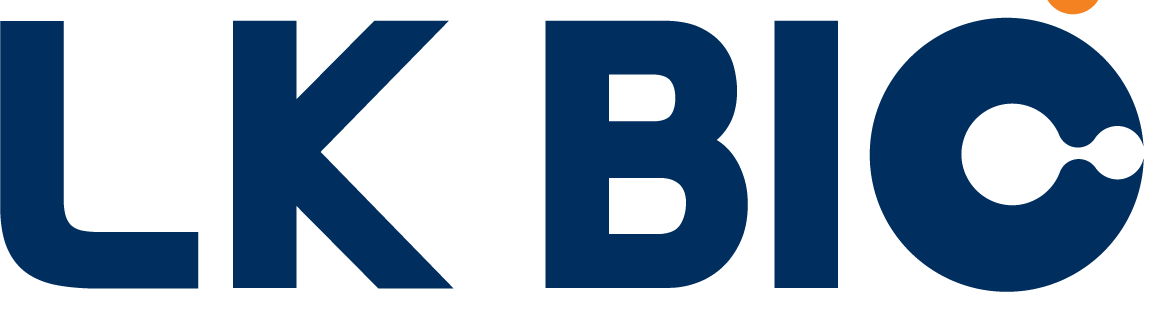
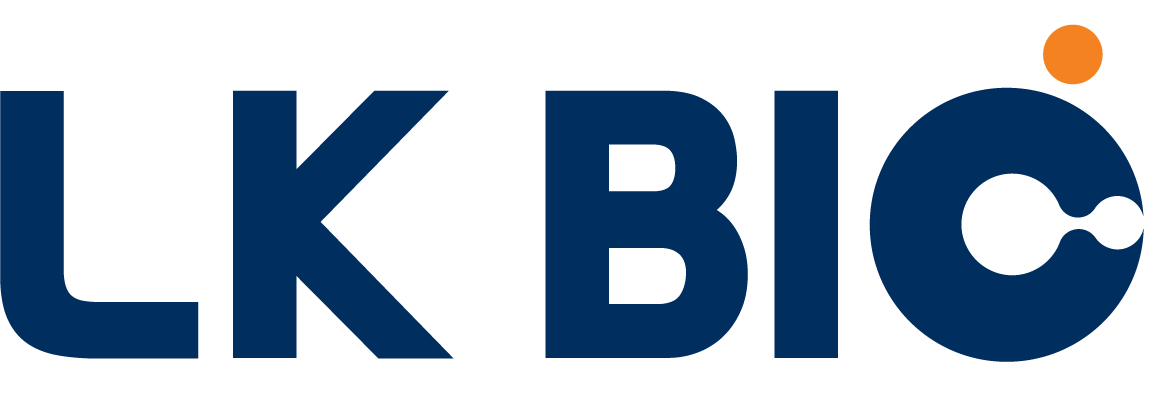
Restore wordmark top spacing

diff --git a/index.html b/index.html
@@ -14,7 +14,7 @@
     :root{--navy:#071a33;--navy2:#0c2b52;--blue:#1e6fe8;--cyan:#46b7ff;--text:#142033;--muted:#6d7888;--line:#e7ebf1;--bg:#f6f9fc;--white:#fff;--shadow:0 20px 60px rgba(11,35,67,.12)}
     *{box-sizing:border-box} html{scroll-behavior:smooth} body{margin:0;font-family:'Noto Sans KR',sans-serif;color:var(--text);background:#fff;line-height:1.7} a{text-decoration:none;color:inherit} img{max-width:100%;display:block}
     .container{width:min(1180px,calc(100% - 40px));margin:auto}.section{padding:120px 0}.eyebrow{font:700 13px/1 'Montserrat',sans-serif;letter-spacing:.18em;color:var(--blue);text-transform:uppercase}.section-title{font-size:44px;line-height:1.25;margin:18px 0 20px;letter-spacing:-.04em}.section-desc{font-size:18px;color:var(--muted);max-width:760px}
-    header{position:fixed;top:0;left:0;width:100%;z-index:1000;padding:18px 0;transition:.3s} header.scrolled{background:rgba(255,255,255,.94);backdrop-filter:blur(16px);box-shadow:0 8px 30px rgba(0,0,0,.08);padding:12px 0}.nav{display:flex;align-items:center;justify-content:space-between}.logo{width:154px;height:44px;display:inline-flex;align-items:center;justify-content:center;flex:none}.logo img{width:100%;height:100%;object-fit:contain;filter:brightness(0) invert(1);transition:filter .3s}header.scrolled .logo img{filter:none}.menu{display:flex;gap:34px;color:#fff;font-size:15px;font-weight:500}.menu a{position:relative}.menu a:after{content:"";position:absolute;left:0;bottom:-8px;width:0;height:2px;background:var(--cyan);transition:.25s}.menu a:hover:after{width:100%} header.scrolled .menu{color:var(--text)}.nav-btn{padding:12px 20px;border:1px solid rgba(255,255,255,.5);border-radius:999px;color:#fff;font-weight:600}.nav-btn:hover{background:#fff;color:var(--navy)} header.scrolled .nav-btn{background:var(--navy);border-color:var(--navy)}.hamb{display:none;color:#fff;font-size:24px} header.scrolled .hamb{color:var(--navy)}
+    header{position:fixed;top:0;left:0;width:100%;z-index:1000;padding:18px 0;transition:.3s} header.scrolled{background:rgba(255,255,255,.94);backdrop-filter:blur(16px);box-shadow:0 8px 30px rgba(0,0,0,.08);padding:12px 0}.nav{display:flex;align-items:center;justify-content:space-between}.logo{width:154px;height:53px;display:inline-flex;align-items:center;justify-content:center;flex:none}.logo img{width:100%;height:100%;object-fit:contain;filter:brightness(0) invert(1);transition:filter .3s}header.scrolled .logo img{filter:none}.menu{display:flex;gap:34px;color:#fff;font-size:15px;font-weight:500}.menu a{position:relative}.menu a:after{content:"";position:absolute;left:0;bottom:-8px;width:0;height:2px;background:var(--cyan);transition:.25s}.menu a:hover:after{width:100%} header.scrolled .menu{color:var(--text)}.nav-btn{padding:12px 20px;border:1px solid rgba(255,255,255,.5);border-radius:999px;color:#fff;font-weight:600}.nav-btn:hover{background:#fff;color:var(--navy)} header.scrolled .nav-btn{background:var(--navy);border-color:var(--navy)}.hamb{display:none;color:#fff;font-size:24px} header.scrolled .hamb{color:var(--navy)}
     .hero{min-height:100vh;display:flex;align-items:center;position:relative;overflow:hidden;background:linear-gradient(120deg,rgba(5,22,43,.96),rgba(8,43,82,.88)),url('https://images.unsplash.com/photo-1576091160399-112ba8d25d1d?auto=format&fit=crop&w=1800&q=85') center/cover}.hero:before{content:"";position:absolute;inset:0;background-image:linear-gradient(rgba(255,255,255,.04) 1px,transparent 1px),linear-gradient(90deg,rgba(255,255,255,.04) 1px,transparent 1px);background-size:70px 70px;mask-image:linear-gradient(to bottom,#000,transparent)}.hero-orb{position:absolute;border-radius:50%;filter:blur(5px);opacity:.45}.orb1{width:480px;height:480px;background:radial-gradient(circle,var(--blue),transparent 68%);right:-120px;top:80px}.orb2{width:360px;height:360px;background:radial-gradient(circle,#12d3c3,transparent 65%);left:-160px;bottom:-80px}.hero-content{position:relative;color:#fff;padding-top:70px}.hero small{display:inline-flex;align-items:center;gap:10px;font:600 13px 'Montserrat',sans-serif;letter-spacing:.16em;color:#9ed3ff}.hero small:before{content:"";width:34px;height:1px;background:#9ed3ff}.hero h1{font-size:72px;line-height:1.13;letter-spacing:-.055em;margin:28px 0 28px;max-width:940px}.hero h1 span{background:linear-gradient(90deg,#fff,#72c8ff);-webkit-background-clip:text;color:transparent}.hero p{font-size:20px;color:rgba(255,255,255,.78);max-width:680px}.hero-actions{display:flex;gap:14px;margin-top:42px}.btn{display:inline-flex;align-items:center;justify-content:center;padding:16px 26px;border-radius:8px;font-weight:700;transition:.25s}.btn-primary{background:var(--blue);color:#fff;box-shadow:0 12px 30px rgba(30,111,232,.35)}.btn-primary:hover{transform:translateY(-3px);background:#155fc9}.btn-ghost{border:1px solid rgba(255,255,255,.42);color:#fff}.btn-ghost:hover{background:#fff;color:var(--navy)}.hero-stats{display:grid;grid-template-columns:repeat(3,1fr);max-width:800px;margin-top:80px;border-top:1px solid rgba(255,255,255,.18);padding-top:28px}.stat strong{font:700 32px 'Montserrat',sans-serif}.stat span{display:block;color:rgba(255,255,255,.6);font-size:14px;margin-top:4px}.scroll{position:absolute;right:40px;bottom:35px;color:rgba(255,255,255,.65);font:600 11px 'Montserrat';letter-spacing:.18em;writing-mode:vertical-rl}.scroll:after{content:"";display:inline-block;width:1px;height:60px;background:linear-gradient(#fff,transparent);margin-top:14px}
     .intro{background:#fff}.intro-grid{display:grid;grid-template-columns:1.05fr .95fr;gap:80px;align-items:center}.visual-card{position:relative}.visual-card img{width:100%;height:560px;object-fit:cover;border-radius:4px}.visual-card:before{content:"";position:absolute;left:-24px;top:30px;width:70%;height:100%;border:1px solid #bfd1e5;z-index:-1}.quote-card{position:absolute;right:-35px;bottom:40px;width:310px;padding:28px;background:var(--navy);color:#fff;box-shadow:var(--shadow)}.quote-card b{font-size:23px;display:block;margin-bottom:10px}.quote-card p{font-size:14px;color:rgba(255,255,255,.7);margin:0}.philosophy{display:flex;gap:18px;align-items:center;margin-top:34px;padding-top:28px;border-top:1px solid var(--line)}.hanja{font-family:serif;font-size:44px;color:var(--navy);white-space:nowrap}.philosophy b{display:block;font-size:18px}.philosophy span{color:var(--muted);font-size:14px}
     .business{background:var(--bg)}.cards{display:grid;grid-template-columns:repeat(3,1fr);gap:22px;margin-top:55px}.biz-card{background:#fff;padding:38px 32px;min-height:340px;border:1px solid #edf0f4;transition:.3s;position:relative;overflow:hidden}.biz-card:after{content:"";position:absolute;left:0;bottom:0;width:100%;height:4px;background:linear-gradient(90deg,var(--blue),var(--cyan));transform:scaleX(0);transform-origin:left;transition:.3s}.biz-card:hover{transform:translateY(-10px);box-shadow:var(--shadow)}.biz-card:hover:after{transform:scaleX(1)}.icon{width:62px;height:62px;border-radius:16px;background:#edf5ff;display:grid;place-items:center;font-size:27px;margin-bottom:36px}.biz-card h3{font-size:23px;margin:0 0 14px}.biz-card p{color:var(--muted);font-size:15px}.biz-card .num{position:absolute;right:24px;top:20px;font:700 42px 'Montserrat';color:#edf2f8}
@@ -22,14 +22,14 @@
     .process{background:#fff}.process-wrap{display:grid;grid-template-columns:repeat(4,1fr);margin-top:60px;position:relative}.process-wrap:before{content:"";position:absolute;top:36px;left:10%;right:10%;height:1px;background:#ced8e5}.step{text-align:center;position:relative;padding:0 18px}.step-dot{width:74px;height:74px;border-radius:50%;margin:0 auto 24px;background:#fff;border:2px solid var(--blue);display:grid;place-items:center;font:700 20px 'Montserrat';color:var(--blue);position:relative;z-index:2}.step h4{font-size:19px;margin-bottom:8px}.step p{font-size:14px;color:var(--muted)}
     .partners{background:var(--bg)}.partner-grid{display:grid;grid-template-columns:repeat(3,1fr);gap:22px;margin-top:50px}.partner-card{background:#fff;border:1px solid #e9edf3;padding:36px;min-height:220px;display:flex;flex-direction:column;justify-content:space-between}.partner-card .tag{font:700 12px 'Montserrat';letter-spacing:.12em;color:var(--blue)}.partner-card h3{font-size:22px;margin:20px 0 10px}.partner-card p{color:var(--muted);font-size:14px}.partner-card em{font-style:normal;font-size:12px;color:#9aa4b3}
     .cta{padding:0 0 120px;background:var(--bg)}.cta-box{background:linear-gradient(120deg,#0b2546,#12447b);color:#fff;padding:70px;display:flex;align-items:center;justify-content:space-between;position:relative;overflow:hidden}.cta-box:after{content:"";position:absolute;width:300px;height:300px;border:70px solid rgba(255,255,255,.06);border-radius:50%;right:-90px;top:-100px}.cta-box h2{font-size:38px;margin:0 0 12px}.cta-box p{color:rgba(255,255,255,.68);margin:0}.cta-box .btn{position:relative;z-index:2;background:#fff;color:var(--navy);min-width:180px}
-    footer{background:#061426;color:#fff;padding:60px 0 30px}.footer-grid{display:grid;grid-template-columns:1.2fr 1fr 1fr;gap:60px}.footer-logo{width:200px;height:57px;display:flex;align-items:center;margin-bottom:24px}.footer-logo img{width:100%;height:100%;object-fit:contain;filter:brightness(0) invert(1)}.footer-desc{color:rgba(255,255,255,.5);font-size:14px;max-width:400px}.footer-title{font-size:14px;color:#82c8ff;margin-bottom:16px}.footer-info{color:rgba(255,255,255,.62);font-size:14px}.copyright{border-top:1px solid rgba(255,255,255,.1);margin-top:40px;padding-top:22px;font-size:12px;color:rgba(255,255,255,.35);display:flex;justify-content:space-between}
+    footer{background:#061426;color:#fff;padding:60px 0 30px}.footer-grid{display:grid;grid-template-columns:1.2fr 1fr 1fr;gap:60px}.footer-logo{width:200px;height:69px;display:flex;align-items:center;margin-bottom:24px}.footer-logo img{width:100%;height:100%;object-fit:contain;filter:brightness(0) invert(1)}.footer-desc{color:rgba(255,255,255,.5);font-size:14px;max-width:400px}.footer-title{font-size:14px;color:#82c8ff;margin-bottom:16px}.footer-info{color:rgba(255,255,255,.62);font-size:14px}.copyright{border-top:1px solid rgba(255,255,255,.1);margin-top:40px;padding-top:22px;font-size:12px;color:rgba(255,255,255,.35);display:flex;justify-content:space-between}
     .reveal{opacity:0;transform:translateY(30px);transition:.7s}.reveal.show{opacity:1;transform:none}
     @media(max-width:900px){.menu,.nav-btn{display:none}.hamb{display:block}.hero h1{font-size:48px}.hero-stats{grid-template-columns:1fr 1fr 1fr}.intro-grid,.strength-grid{grid-template-columns:1fr}.cards,.partner-grid{grid-template-columns:1fr 1fr}.visual-card img{height:440px}.quote-card{right:15px}.process-wrap{grid-template-columns:1fr 1fr;gap:45px}.process-wrap:before{display:none}.cta-box{padding:48px;display:block}.cta-box .btn{margin-top:25px}.footer-grid{grid-template-columns:1fr 1fr}}
-    @media(max-width:620px){.container{width:min(100% - 28px,1180px)}.logo{width:130px;height:37px}.section{padding:85px 0}.section-title{font-size:33px}.hero h1{font-size:42px}.hero p{font-size:17px}.hero-actions{flex-direction:column;align-items:flex-start}.hero-stats{gap:10px}.stat strong{font-size:25px}.stat span{font-size:11px}.cards,.partner-grid,.strength-list,.process-wrap,.footer-grid{grid-template-columns:1fr}.visual-card img{height:380px}.quote-card{position:relative;right:auto;bottom:auto;width:calc(100% - 24px);margin:-60px 12px 0}.cta-box{padding:38px 26px}.cta-box h2{font-size:29px}.copyright{display:block}.scroll{display:none}}
+    @media(max-width:620px){.container{width:min(100% - 28px,1180px)}.logo{width:130px;height:45px}.section{padding:85px 0}.section-title{font-size:33px}.hero h1{font-size:42px}.hero p{font-size:17px}.hero-actions{flex-direction:column;align-items:flex-start}.hero-stats{gap:10px}.stat strong{font-size:25px}.stat span{font-size:11px}.cards,.partner-grid,.strength-list,.process-wrap,.footer-grid{grid-template-columns:1fr}.visual-card img{height:380px}.quote-card{position:relative;right:auto;bottom:auto;width:calc(100% - 24px);margin:-60px 12px 0}.cta-box{padding:38px 26px}.cta-box h2{font-size:29px}.copyright{display:block}.scroll{display:none}}
   </style>
 </head>
 <body>
-<header id="header"><div class="container nav"><a class="logo" href="/" aria-label="LK BIO 홈"><img src="/assets/lkbio-wordmark.png" width="1155" height="330" alt="LK BIO"></a><nav class="menu"><a href="#about">회사소개</a><a href="#business">사업분야</a><a href="#strength">경쟁력</a><a href="#partner">파트너십</a><a href="#contact">문의하기</a></nav><a class="nav-btn" href="mailto:lkbio24@naver.com?subject=LK%20BIO%20상담문의">사업 제휴 문의</a><div class="hamb">☰</div></div></header>
+<header id="header"><div class="container nav"><a class="logo" href="/" aria-label="LK BIO 홈"><img src="/assets/lkbio-wordmark.png" width="1155" height="400" alt="LK BIO"></a><nav class="menu"><a href="#about">회사소개</a><a href="#business">사업분야</a><a href="#strength">경쟁력</a><a href="#partner">파트너십</a><a href="#contact">문의하기</a></nav><a class="nav-btn" href="mailto:lkbio24@naver.com?subject=LK%20BIO%20상담문의">사업 제휴 문의</a><div class="hamb">☰</div></div></header>
 <section class="hero"><div class="hero-orb orb1"></div><div class="hero-orb orb2"></div><div class="container hero-content"><small>PHARMACEUTICAL BUSINESS PARTNER</small><h1>신뢰를 연결하고,<br><span>의료 비즈니스의 가치를 만듭니다.</span></h1><p>LK BIO는 30년 제약 현장 경험과 전문 네트워크를 바탕으로 제약사, 병·의원, 사업자를 연결하는 전략적 비즈니스 파트너입니다.</p><div class="hero-actions"><a class="btn btn-primary" href="#business">사업영역 보기 →</a><a class="btn btn-ghost" href="mailto:lkbio24@naver.com?subject=LK%20BIO%20상담문의">제휴 문의</a></div><div class="hero-stats"><div class="stat"><strong>30+</strong><span>Years of Experience</span></div><div class="stat"><strong>3</strong><span>MOU Partners</span></div><div class="stat"><strong>Trust</strong><span>Long-term Partnership</span></div></div></div><div class="scroll">SCROLL</div></section>
 <section class="section intro" id="about"><div class="container intro-grid"><div class="visual-card reveal"><img src="https://images.unsplash.com/photo-1579684385127-1ef15d508118?auto=format&fit=crop&w=1200&q=85" alt="의료 전문 이미지"><div class="quote-card"><b>正心大道</b><p>바른 마음으로 큰길을 간다.<br>정직과 성실을 바탕으로 지속 가능한 신뢰를 만듭니다.</p></div></div><div class="reveal"><div class="eyebrow">ABOUT LK BIO</div><h2 class="section-title">현장을 이해하는 기업이<br>최선의 연결을 만듭니다.</h2><p class="section-desc">LK BIO는 제약 산업의 복잡한 유통·영업 환경을 깊이 이해하고 있습니다. 단순한 판매 대행을 넘어 파트너의 목표와 시장 상황을 분석하여 실질적인 성과로 이어지는 맞춤형 솔루션을 제공합니다.</p><div class="philosophy"><div class="hanja">正心大道</div><div><b>정심대도</b><span>정직과 성실, 그리고 올바른 성장을 향한 LK BIO의 경영철학</span></div></div></div></div></section>
 <section class="section business" id="business"><div class="container"><div class="eyebrow reveal">BUSINESS AREA</div><h2 class="section-title reveal">제약 비즈니스의 전 과정을<br>전문적으로 연결합니다.</h2><p class="section-desc reveal">파트너사의 제품과 경쟁력에 맞춘 영업 전략을 수립하고, 의료기관과의 신뢰 기반 네트워크를 통해 시장 진입과 성장을 지원합니다.</p><div class="cards"><article class="biz-card reveal"><span class="num">01</span><div class="icon">⚕</div><h3>제약 영업·판매 대행</h3><p>제품 특성과 시장을 분석하고 현장 중심의 전문 영업 활동으로 안정적인 거래 기반을 구축합니다.</p></article><article class="biz-card reveal"><span class="num">02</span><div class="icon">⌘</div><h3>병·의원 네트워크</h3><p>의료기관의 요구를 정확히 파악하고 적합한 제품과 서비스를 연결해 지속 가능한 파트너십을 만듭니다.</p></article><article class="biz-card reveal"><span class="num">03</span><div class="icon">↗</div><h3>사업 제휴·시장 확대</h3><p>제약사, 개인사업자, 법인사업자 간 협업 기회를 발굴하여 새로운 시장과 성장 가능성을 확장합니다.</p></article></div></div></section>
@@ -37,7 +37,7 @@
 <section class="section process"><div class="container"><div class="eyebrow reveal">WORK PROCESS</div><h2 class="section-title reveal">투명하고 체계적인 협업 프로세스</h2><div class="process-wrap"><div class="step reveal"><div class="step-dot">01</div><h4>상담 및 진단</h4><p>파트너사의 목표와 현재 상황을 정확히 파악합니다.</p></div><div class="step reveal"><div class="step-dot">02</div><h4>전략 설계</h4><p>제품·시장·고객에 맞는 최적의 영업 전략을 제안합니다.</p></div><div class="step reveal"><div class="step-dot">03</div><h4>현장 실행</h4><p>전문 인력과 네트워크를 기반으로 전략을 실행합니다.</p></div><div class="step reveal"><div class="step-dot">04</div><h4>성과 관리</h4><p>결과를 점검하고 개선 방향을 지속적으로 공유합니다.</p></div></div></div></section>
 <section class="section partners" id="partner"><div class="container"><div class="eyebrow reveal">MOU & PARTNERSHIP</div><h2 class="section-title reveal">함께 성장하는 협력 네트워크</h2><p class="section-desc reveal">LK BIO는 다양한 전문 기업과의 업무협약을 기반으로 더 넓고 안정적인 비즈니스 기회를 만들어 갑니다.</p><div class="partner-grid"><div class="partner-card reveal"><div><span class="tag">MOU PARTNER 01</span><h3>주식회사 코넥시</h3><p>보안솔루션 전문기업으로, LK BIO와 기술 기반 사업 협력 네트워크를 구축하고 있습니다.</p></div><em>Security Solution Partner</em></div><div class="partner-card reveal"><div><span class="tag">MOU PARTNER 02</span><h3>(주) 노바힐스</h3><p>해외 수출 관련 업무 및 국내 영업 협력을 함께하는 비즈니스 파트너입니다.</p></div><em>Global Export & Sales Partner</em></div><div class="partner-card reveal"><div><span class="tag">MOU PARTNER 03</span><h3>SL Foods Pte. Ltd.</h3><p>건강보조식품·화장품·의료 관련 사업 및 해외 수출 업무를 협력하는 파트너입니다.</p></div><em>Global Distribution Partner</em></div></div></div></section>
 <section class="cta" id="contact"><div class="container"><div class="cta-box reveal"><div><h2>새로운 비즈니스의 시작,<br>LK BIO와 함께하십시오.</h2><p>제약 영업, 판매 대행, 병·의원 연결 및 사업 제휴 상담을 환영합니다.</p></div><a href="mailto:lkbio24@naver.com?subject=LK%20BIO%20상담문의" class="btn">상담 문의하기 →</a></div></div></section>
-<footer><div class="container"><div class="footer-grid"><div><div class="footer-logo"><img src="/assets/lkbio-wordmark.png" width="1155" height="330" loading="lazy" alt="LK BIO"></div><p class="footer-desc">정직과 성실을 바탕으로 제약사와 의료기관, 사업자를 연결하며 신뢰받는 의료 비즈니스 파트너를 지향합니다.</p></div><div><div class="footer-title">COMPANY</div><div class="footer-info">상호: 주식회사 엘케이바이오<br>대표자: 이호성<br>사업분야: 의약품 판매대행·CSO<br>설립: 2023.07.25</div></div><div><div class="footer-title">CONTACT</div><div class="footer-info">경기도 성남시 수정구 복정로 73, 601호 (복정동)<br>대표전화: 031-8039-6997<br>FAX: 031-8039-6998<br>이메일: <a href="mailto:lkbio24@naver.com?subject=LK%20BIO%20상담문의" style="color:inherit">lkbio24@naver.com</a></div></div></div><div class="copyright"><span>© 2026 LK BIO. All Rights Reserved.</span><span>Privacy Policy · Terms of Use</span></div></div></footer>
+<footer><div class="container"><div class="footer-grid"><div><div class="footer-logo"><img src="/assets/lkbio-wordmark.png" width="1155" height="400" loading="lazy" alt="LK BIO"></div><p class="footer-desc">정직과 성실을 바탕으로 제약사와 의료기관, 사업자를 연결하며 신뢰받는 의료 비즈니스 파트너를 지향합니다.</p></div><div><div class="footer-title">COMPANY</div><div class="footer-info">상호: 주식회사 엘케이바이오<br>대표자: 이호성<br>사업분야: 의약품 판매대행·CSO<br>설립: 2023.07.25</div></div><div><div class="footer-title">CONTACT</div><div class="footer-info">경기도 성남시 수정구 복정로 73, 601호 (복정동)<br>대표전화: 031-8039-6997<br>FAX: 031-8039-6998<br>이메일: <a href="mailto:lkbio24@naver.com?subject=LK%20BIO%20상담문의" style="color:inherit">lkbio24@naver.com</a></div></div></div><div class="copyright"><span>© 2026 LK BIO. All Rights Reserved.</span><span>Privacy Policy · Terms of Use</span></div></div></footer>
 <script>const h=document.getElementById('header');window.addEventListener('scroll',()=>h.classList.toggle('scrolled',scrollY>50));const obs=new IntersectionObserver(es=>es.forEach(e=>{if(e.isIntersecting)e.target.classList.add('show')}),{threshold:.12});document.querySelectorAll('.reveal').forEach(el=>obs.observe(el));</script>
 <a href="mailto:lkbio24@naver.com?subject=LK%20BIO%20상담문의" aria-label="LK BIO 상담 문의" style="position:fixed;right:22px;bottom:22px;z-index:999;background:#1e6fe8;color:#fff;padding:13px 18px;border-radius:999px;font-weight:700;box-shadow:0 12px 30px rgba(30,111,232,.30)">상담 문의</a>
 </body></html>
